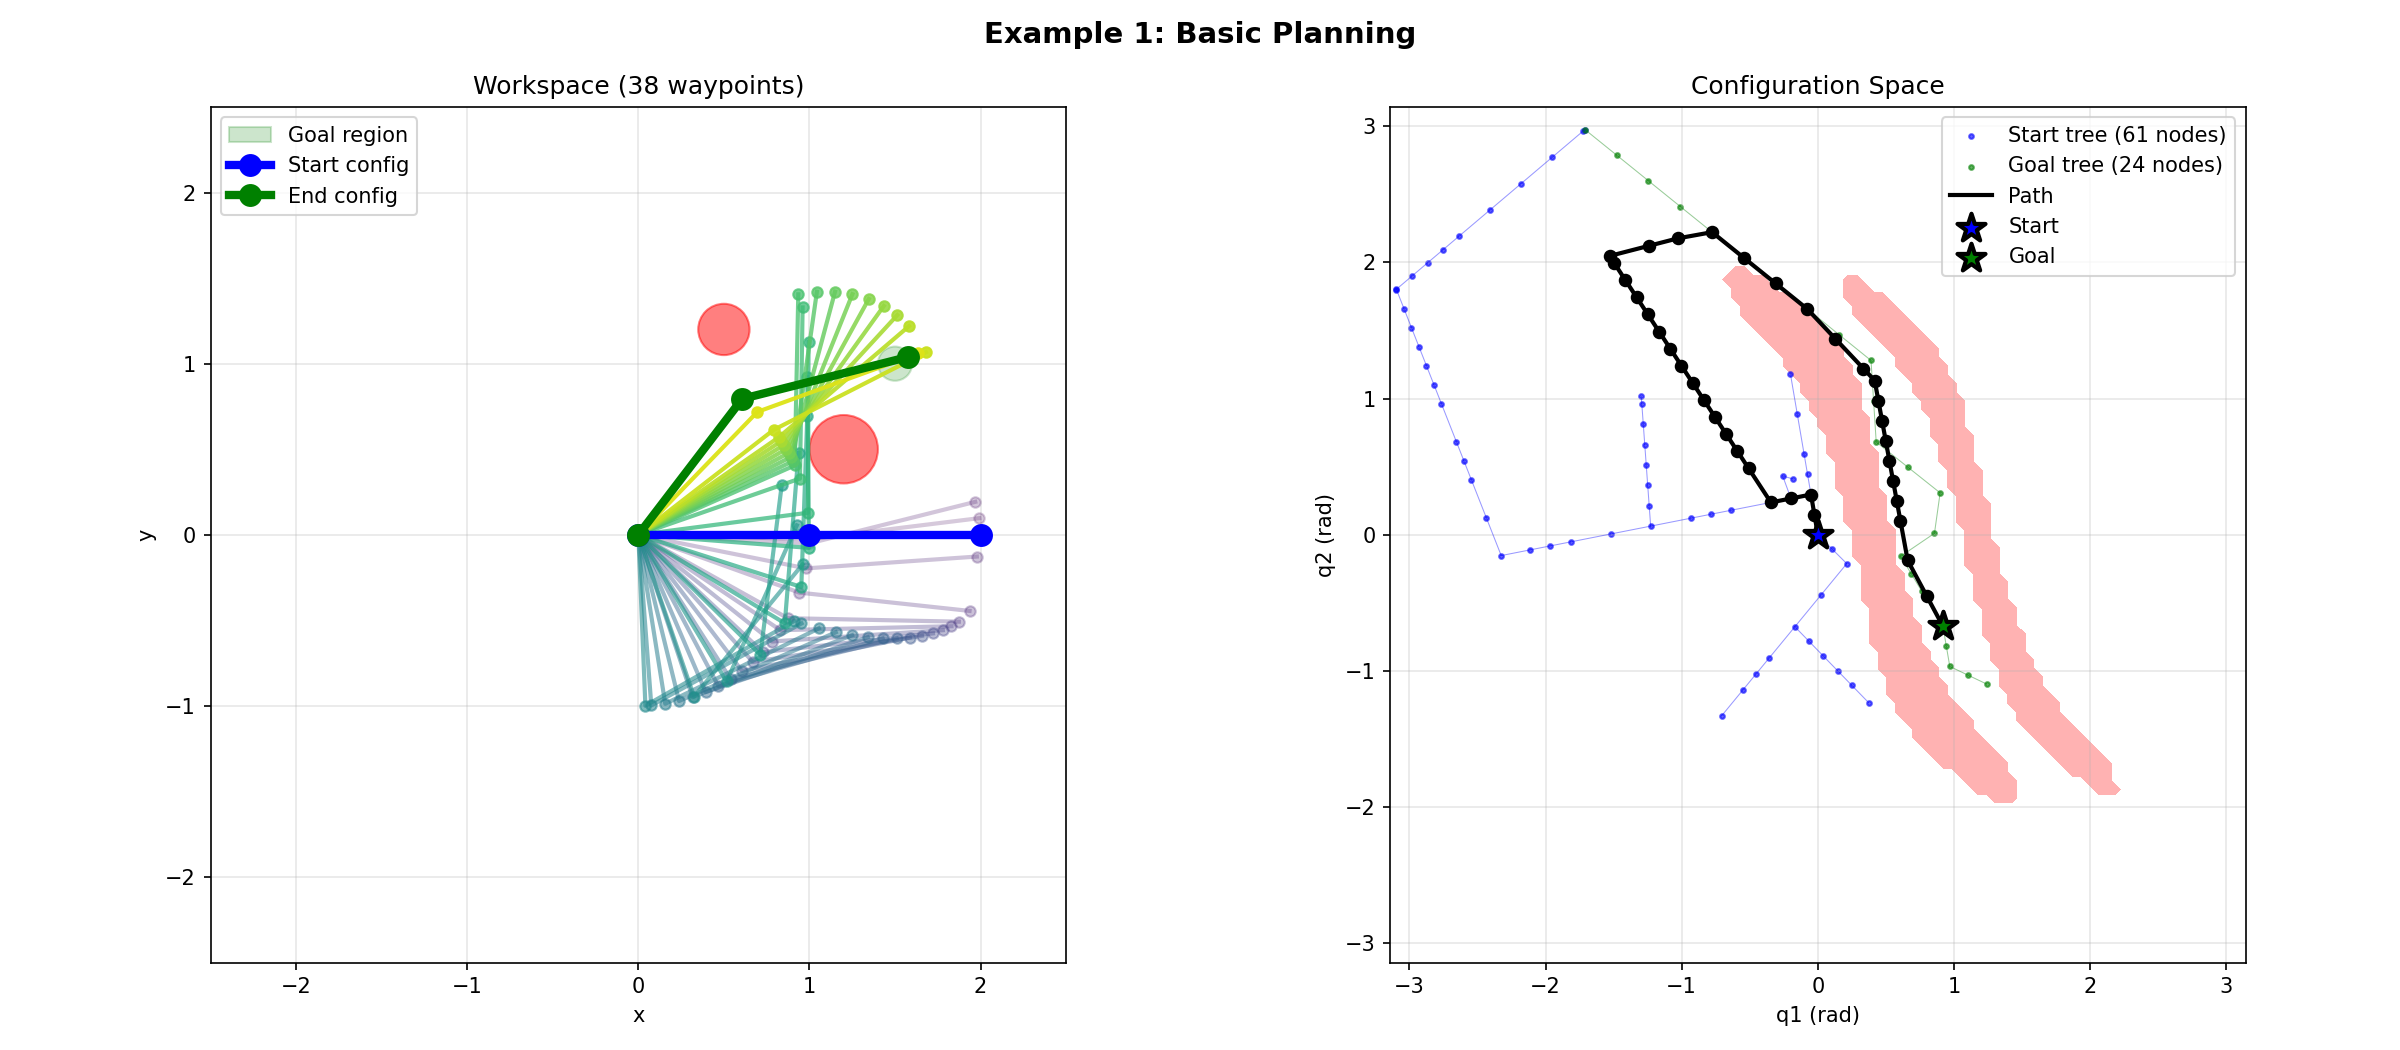
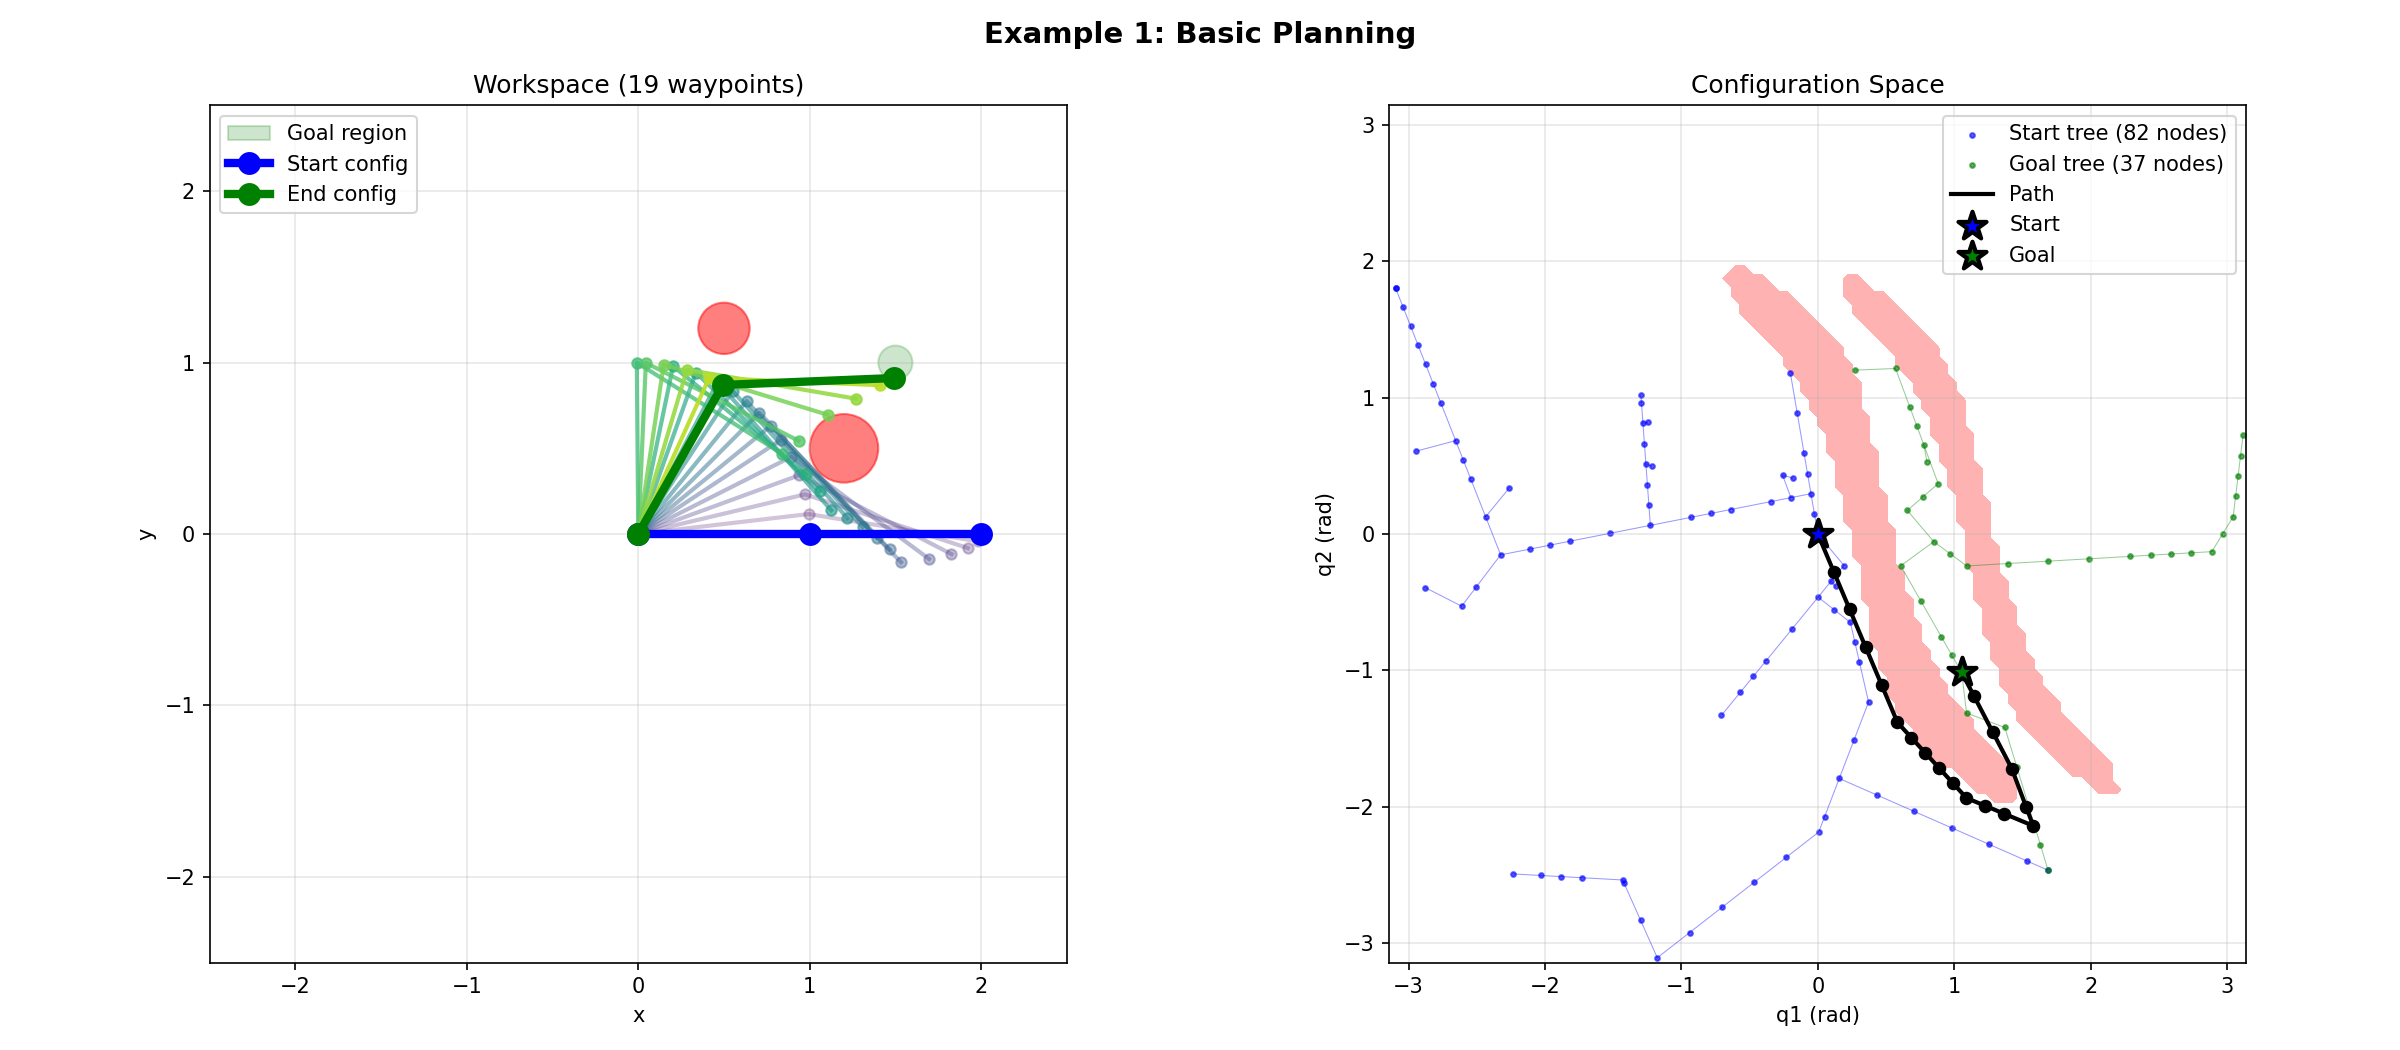
Fix C-space visualization for angular wraparound
Skip drawing edges and path segments that cross the ±π boundary
to avoid long lines going the wrong way around the torus.

diff --git a/examples/planar_arm.py b/examples/planar_arm.py
@@ -277,11 +277,15 @@ def visualize_result(
 
     ax_cs.contourf(Q1, Q2, collision_map, levels=[0.5, 1.5], colors=["red"], alpha=0.3)
 
-    # Draw tree edges
+    # Draw tree edges (handling angular wraparound)
     def draw_tree(tree: RRTree, color: str, label: str):
         for node in tree.nodes:
             if node.parent is not None:
                 parent = tree.nodes[node.parent]
+                # Skip edges that wrap around ±π (would draw long lines across plot)
+                diff = np.abs(node.config - parent.config)
+                if diff[0] > np.pi or diff[1] > np.pi:
+                    continue
                 ax_cs.plot(
                     [parent.config[0], node.config[0]],
                     [parent.config[1], node.config[1]],
@@ -296,9 +300,18 @@ def visualize_result(
     draw_tree(tree_start, "blue", f"Start tree ({len(tree_start)} nodes)")
     draw_tree(tree_goal, "green", f"Goal tree ({len(tree_goal)} nodes)")
 
-    # Draw path
+    # Draw path (handling angular wraparound)
     path_arr = np.array(path)
-    ax_cs.plot(path_arr[:, 0], path_arr[:, 1], "k-", linewidth=2, label="Path")
+    for i in range(len(path_arr) - 1):
+        diff = np.abs(path_arr[i + 1] - path_arr[i])
+        if diff[0] > np.pi or diff[1] > np.pi:
+            continue  # Skip segments that wrap around
+        ax_cs.plot(
+            [path_arr[i, 0], path_arr[i + 1, 0]],
+            [path_arr[i, 1], path_arr[i + 1, 1]],
+            "k-", linewidth=2,
+        )
+    ax_cs.plot([], [], "k-", linewidth=2, label="Path")  # For legend
     ax_cs.scatter(path_arr[:, 0], path_arr[:, 1], c="black", s=30, zorder=5)
 
     # Mark start and goal
